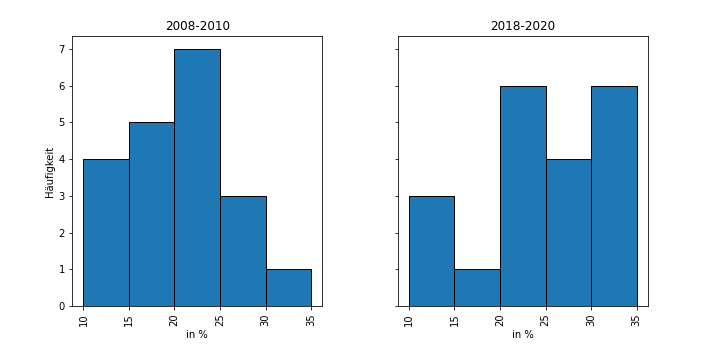
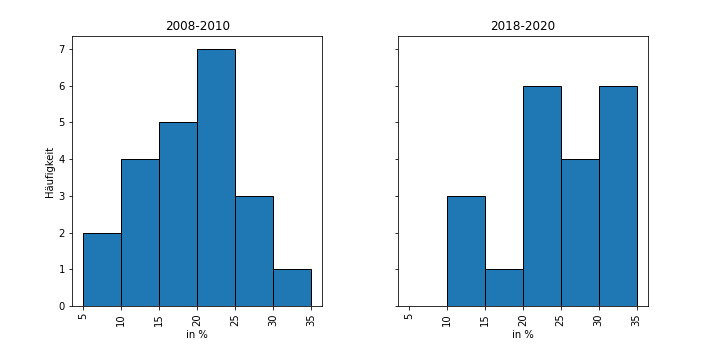
Adjusted bins for second histogram. 🧵

diff --git a/idaf.html b/idaf.html
@@ -14999,7 +14999,7 @@ Name: Frauenanteil in nationalen Parlamenten, dtype: float64</pre>
 <div class="jp-CodeMirrorEditor jp-Editor jp-InputArea-editor" data-type="inline">
      <div class="CodeMirror cm-s-jupyter">
 <div class=" highlight hl-ipython3"><pre><span></span><span class="c1"># Print hist for Frauenanteil in nationalen Parlamenten 2008-2010, 2018-2020</span>
-<span class="n">bins</span> <span class="o">=</span> <span class="n">np</span><span class="o">.</span><span class="n">arange</span><span class="p">(</span><span class="n">start</span><span class="o">=</span><span class="mi">10</span><span class="p">,</span> <span class="n">stop</span><span class="o">=</span><span class="mi">40</span><span class="p">,</span> <span class="n">step</span><span class="o">=</span><span class="mi">5</span><span class="p">)</span>
+<span class="n">bins</span> <span class="o">=</span> <span class="n">np</span><span class="o">.</span><span class="n">arange</span><span class="p">(</span><span class="n">start</span><span class="o">=</span><span class="mi">5</span><span class="p">,</span> <span class="n">stop</span><span class="o">=</span><span class="mi">40</span><span class="p">,</span> <span class="n">step</span><span class="o">=</span><span class="mi">5</span><span class="p">)</span>
 <span class="n">hist</span> <span class="o">=</span> <span class="n">df</span><span class="o">.</span><span class="n">hist</span><span class="p">(</span><span class="n">column</span><span class="o">=</span><span class="s1">&#39;Frauenanteil in nationalen Parlamenten&#39;</span><span class="p">,</span>
                <span class="n">sharey</span><span class="o">=</span><span class="kc">True</span><span class="p">,</span>
                <span class="n">figsize</span><span class="o">=</span><span class="p">[</span><span class="mi">10</span><span class="p">,</span> <span class="mi">5</span><span class="p">],</span>
@@ -15030,7 +15030,7 @@ Name: Frauenanteil in nationalen Parlamenten, dtype: float64</pre>
 
 
 <div class="jp-RenderedImage jp-OutputArea-output ">
[2 lines of base64/hex data omitted]
 >
 </div>
 
